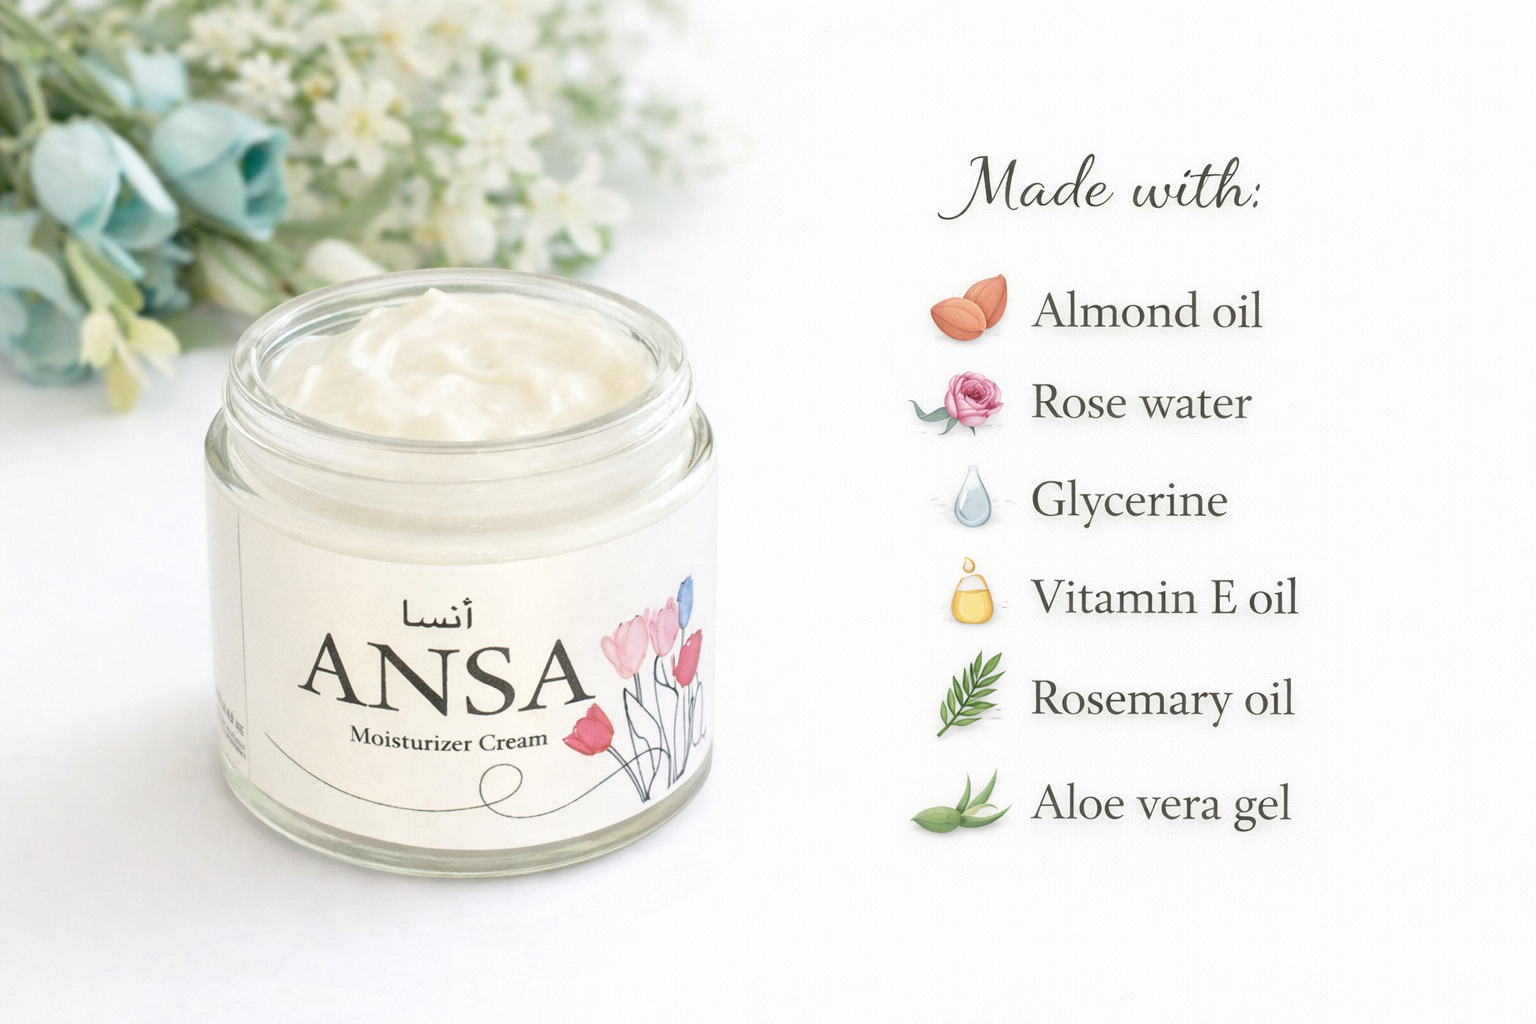
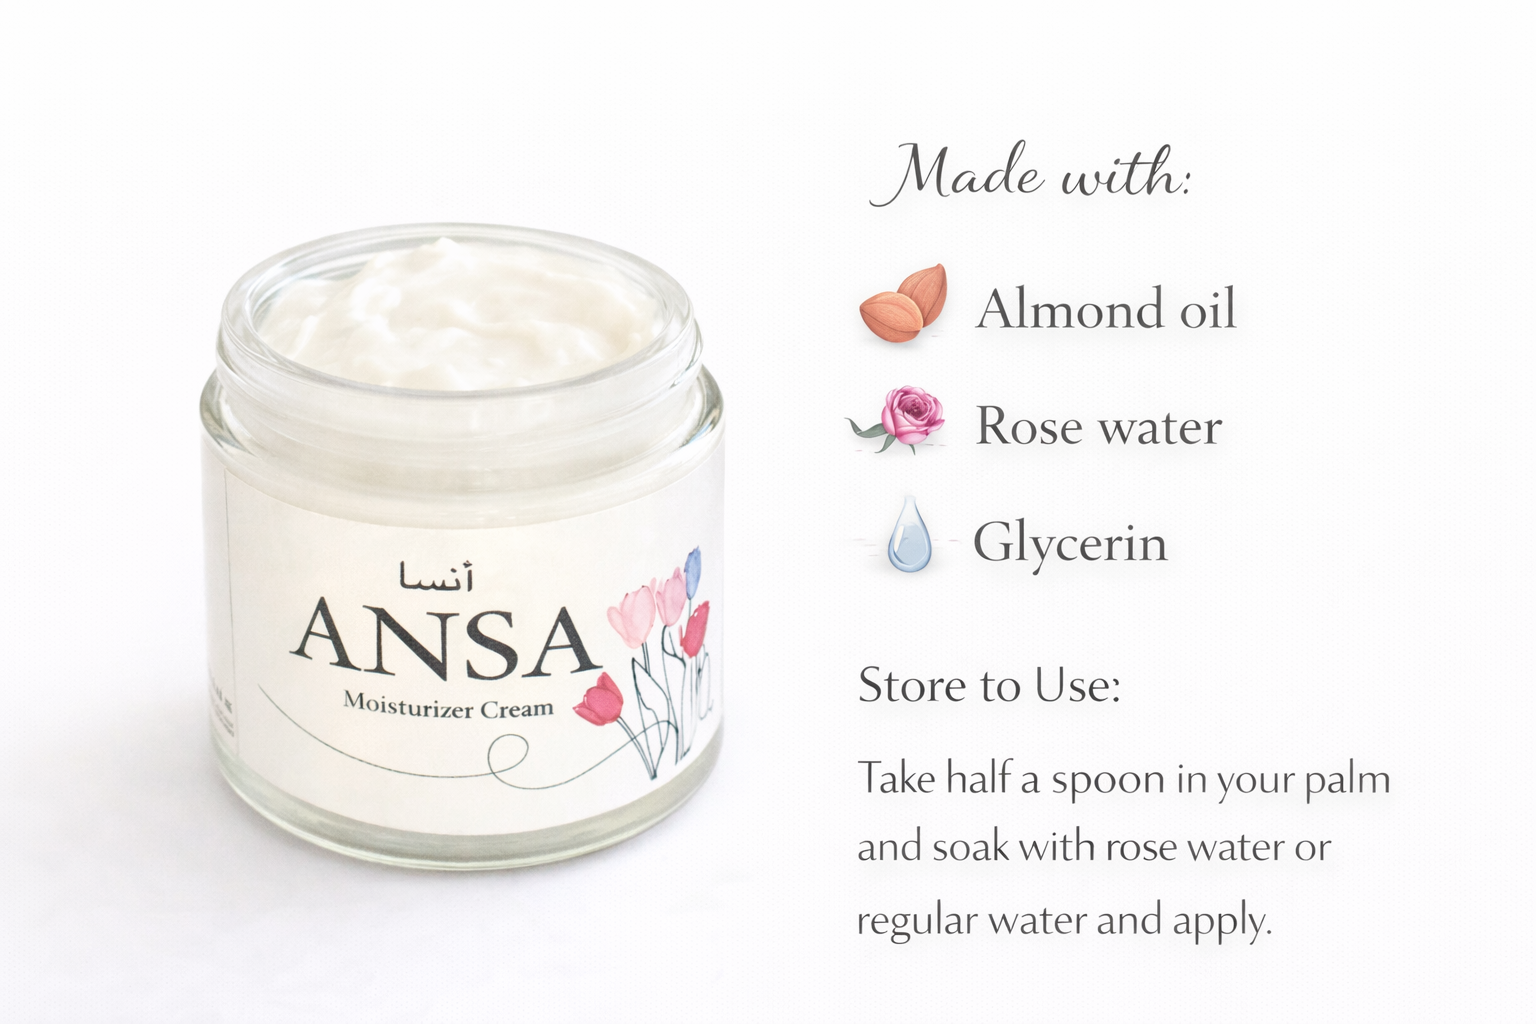
Update products, ingredients, images, and add testimonials

diff --git a/src/data/products.js b/src/data/products.js
@@ -15,12 +15,22 @@ import nightCream2 from '../assets/products/night-cream-2.png';
 import deodorant1 from '../assets/products/deodorant-1.png';
 import deodorant2 from '../assets/products/deodorant-2.png';
 
+import ageReversalCream1 from '../assets/products/age-reversal-cream-1.png';
+import ageReversalCream2 from '../assets/products/age-reversal-cream-2.png';
+
+import ageReversalOil1 from '../assets/products/age-reversal-oil-1.png';
+import ageReversalOil2 from '../assets/products/age-reversal-oil-2.png';
+
+import herbalShampoo1 from '../assets/products/herbal-shampoo-1.png';
+import herbalShampoo2 from '../assets/products/herbal-shampoo-2.png';
+
 export const products = [
     {
         id: 1,
         name: 'Ansa Herbal Moisturizer',
         description: 'A gentle, nourishing moisturizer created to hydrate and soften the skin without feeling heavy. Blends natural oils and botanicals.',
-        ingredients: ['Almond oil', 'Rose water', 'Glycerine', 'Vitamin E oil', 'Rosemary oil', 'Aloe vera gel'],
+        ingredients: ['Almond oil', 'Rose water', 'Glycerine'],
+        storage: 'Store in a cool dry place and handle with care',
         images: [moisturizer1, moisturizer2, moisturizer3],
         category: 'Skincare'
     },
@@ -29,14 +39,15 @@ export const products = [
         name: 'Ansa Herbal Sunscreen',
         description: 'A naturally inspired sunscreen formulated to help protect and soothe the skin during daily sun exposure.',
         ingredients: ['Aloe vera gel', 'Carrot oil', 'Castor oil'],
-        images: [sunscreen1, sunscreen2, sunscreen3],
+        images: [sunscreen1, sunscreen2],
         category: 'Protection'
     },
     {
         id: 3,
         name: 'Ansa Herbal Face Wash',
         description: 'A traditional herbal cleanser made with natural powders that cleanse the skin without stripping its natural oils.',
-        ingredients: ['Gram flour', 'Mansoor dal', 'Wild turmeric', 'Sandalwood', 'Rice powder', 'Coffee', 'Neem', 'Aloe vera'],
+        ingredients: ['Sandal', 'Neem', 'Wild turmeric'],
+        usage: 'Take half a spoon in your palm and soak with rose water or regular water and apply',
         images: [faceWash1, faceWash2],
         category: 'Cleanser'
     },
@@ -44,7 +55,8 @@ export const products = [
         id: 4,
         name: 'Anti Wrinkle Night Cream',
         description: 'A nourishing night cream designed to support skin renewal while you rest.',
-        ingredients: ['Almond oil', 'Rose water', 'Glycerine', 'Vitamin E oil', 'Green tea', 'Aloe vera'],
+        ingredients: ['Almond oil', 'Green tea', 'Rose water'],
+        storage: 'Store in a cool dry place and handle with care',
         images: [nightCream1, nightCream2],
         category: 'Night Care'
     },
@@ -52,8 +64,35 @@ export const products = [
         id: 5,
         name: 'Ansa Herbal Deodorant',
         description: 'A gentle, chemical-free deodorant created to keep you feeling fresh throughout the day.',
-        ingredients: ['Arrowroot', 'Coconut oil', 'Kaolin clay', 'Shea butter'],
+        ingredients: ['Coconut oil', 'Shea butter', 'Arrowroot', 'No baking soda'],
         images: [deodorant1, deodorant2],
         category: 'Body Care'
+    },
+    {
+        id: 6,
+        name: 'Ansa Age Reversal Night Cream',
+        description: 'A regenerative night cream formulated with orange and rosehip oils to rejuvenate and repair skin overnight.',
+        ingredients: ['Orange oil', 'Rosehip oil', 'Rose water'],
+        storage: 'Store in a cool dry place and handle with care',
+        images: [ageReversalCream1, ageReversalCream2],
+        category: 'Night Care'
+    },
+    {
+        id: 7,
+        name: 'Ansa Age Reversal Oil',
+        description: 'A revitalizing blend of 11 essential oils, including almond and rosemary, crafted to restore youthful radiance.',
+        ingredients: ['Almond oil', 'Rosemary oil', 'Blend of 11 essential oils'],
+        usage: 'Take few drops in your palm and rub then apply on your face and neck',
+        images: [ageReversalOil1, ageReversalOil2],
+        category: 'Face Care'
+    },
+    {
+        id: 8,
+        name: 'Ansa Herbal Shampoo',
+        description: 'A natural herbal shampoo infused with amla, shikakai, and neem to cleanse, strengthen, and soften hair.',
+        ingredients: ['Amala', 'Shikakai', 'Reetha', 'Flax seed', 'Fenu Greek', 'Neem'],
+        // User descriptive text merged into description? Not explicitly requested, but kept description consistent.
+        images: [herbalShampoo1, herbalShampoo2],
+        category: 'Hair Care'
     }
 ];

diff --git a/src/pages/About.jsx b/src/pages/About.jsx
@@ -4,6 +4,33 @@ import aboutImage from '../assets/images/about-story.png';
 import './About.css';
 
 const About = () => {
+    const testimonials = [
+        {
+            id: 1,
+            product: "Ansa Face Cleanser",
+            text: "Have been using this cleanser for quite some time now and it has shown great results especially diminishing sun burn, brightening face and gives a nice glow on the skin. It is good for all skin types. Definitely recommend this for all",
+            author: "Fatema"
+        },
+        {
+            id: 2,
+            product: "ANSA Night Cream",
+            text: "I wake up with soft, refreshed, healthy-looking skin. ❤",
+            author: "Maria"
+        },
+        {
+            id: 3,
+            product: "ANSA Day Cream",
+            text: "Makes my skin feel awake and refreshed every morning.",
+            author: "Tasneem"
+        },
+        {
+            id: 4,
+            product: "Ansa Herbal Shampoo",
+            text: "I absolutely loved this herbal shampoo. It really helped reduce my hair fall, and my hair feels so silky, smooth, and shiny after every wash. The fact that it’s chemical-free is a huge plus for me. I’m very happy with the results and would definitely recommend it to others.",
+            author: "Zainab"
+        }
+    ];
+
     return (
         <div className="about-page">
             <div className="about-header section">
@@ -68,6 +95,28 @@ const About = () => {
                             <h4>Respect</h4>
                             <p>Respect for your skin's natural balance and the planet we all share.</p>
                         </div>
+                    </div>
+                </div>
+            </section>
+
+            <section className="section testimonials-section">
+                <div className="container">
+                    <div className="text-center mb-4">
+                        <h2 className="section-title">What People Say</h2>
+                        <p className="section-desc">Stories from our community about their journey with Ansa.</p>
+                    </div>
+
+                    <div className="testimonials-grid">
+                        {testimonials.map((t, index) => (
+                            <div key={t.id} className="testimonial-card fade-in-up" style={{ animationDelay: `${0.1 + (index * 0.1)}s` }}>
+                                <div className="quote-icon">❝</div>
+                                <p className="testimonial-text">{t.text}</p>
+                                <div className="testimonial-footer">
+                                    <span className="testimonial-author">- {t.author}</span>
+                                    <span className="testimonial-product">{t.product}</span>
+                                </div>
+                            </div>
+                        ))}
                     </div>
                 </div>
             </section>

diff --git a/src/pages/About.css b/src/pages/About.css
@@ -147,3 +147,65 @@
         grid-template-columns: 1fr;
     }
 }
+
+/* Testimonials Section */
+.testimonials-section {
+    background-color: var(--color-off-white);
+    padding: 6rem 0;
+}
+
+.testimonials-grid {
+    display: grid;
+    grid-template-columns: repeat(auto-fit, minmax(300px, 1fr));
+    gap: 2rem;
+}
+
+.testimonial-card {
+    background: var(--color-white);
+    padding: 2.5rem;
+    border-radius: var(--radius-lg);
+    box-shadow: 0 5px 20px rgba(0, 0, 0, 0.05);
+    position: relative;
+    border: 1px solid rgba(111, 143, 122, 0.1);
+    display: flex;
+    flex-direction: column;
+    justify-content: space-between;
+}
+
+.quote-icon {
+    font-size: 3rem;
+    line-height: 1;
+    color: var(--color-sage);
+    opacity: 0.3;
+    margin-bottom: 1rem;
+    font-family: serif;
+}
+
+.testimonial-text {
+    color: var(--color-charcoal);
+    font-style: italic;
+    margin-bottom: 1.5rem;
+    font-size: 1.05rem;
+    line-height: 1.6;
+}
+
+.testimonial-footer {
+    border-top: 1px solid #eee;
+    padding-top: 1rem;
+    display: flex;
+    flex-direction: column;
+}
+
+.testimonial-author {
+    font-weight: 600;
+    color: var(--color-sage);
+    font-size: 1.1rem;
+}
+
+.testimonial-product {
+    font-size: 0.85rem;
+    color: var(--color-text-light);
+    margin-top: 0.25rem;
+    text-transform: uppercase;
+    letter-spacing: 0.05em;
+}

diff --git a/src/pages/Products.jsx b/src/pages/Products.jsx
@@ -79,6 +79,20 @@ const Products = () => {
                                     ))}
                                 </div>
                             </div>
+
+                            {product.usage && (
+                                <div className="product-usage">
+                                    <h4>How to Use</h4>
+                                    <p>{product.usage}</p>
+                                </div>
+                            )}
+
+                            {product.storage && (
+                                <div className="product-storage">
+                                    <h4>Storage</h4>
+                                    <p>{product.storage}</p>
+                                </div>
+                            )}
                         </div>
                     </div>
                 ))}

diff --git a/src/pages/Products.css b/src/pages/Products.css
@@ -198,10 +198,18 @@
     max-width: 90%;
 }
 
-.ingredients-section h4 {
+.ingredients-section h4,
+.product-usage h4,
+.product-storage h4 {
     font-size: 1rem;
     margin-bottom: 1rem;
     color: var(--color-charcoal);
+    font-weight: 600;
+}
+
+.product-usage,
+.product-storage {
+    margin-top: 2rem;
 }
 
 .ingredients-tags {
